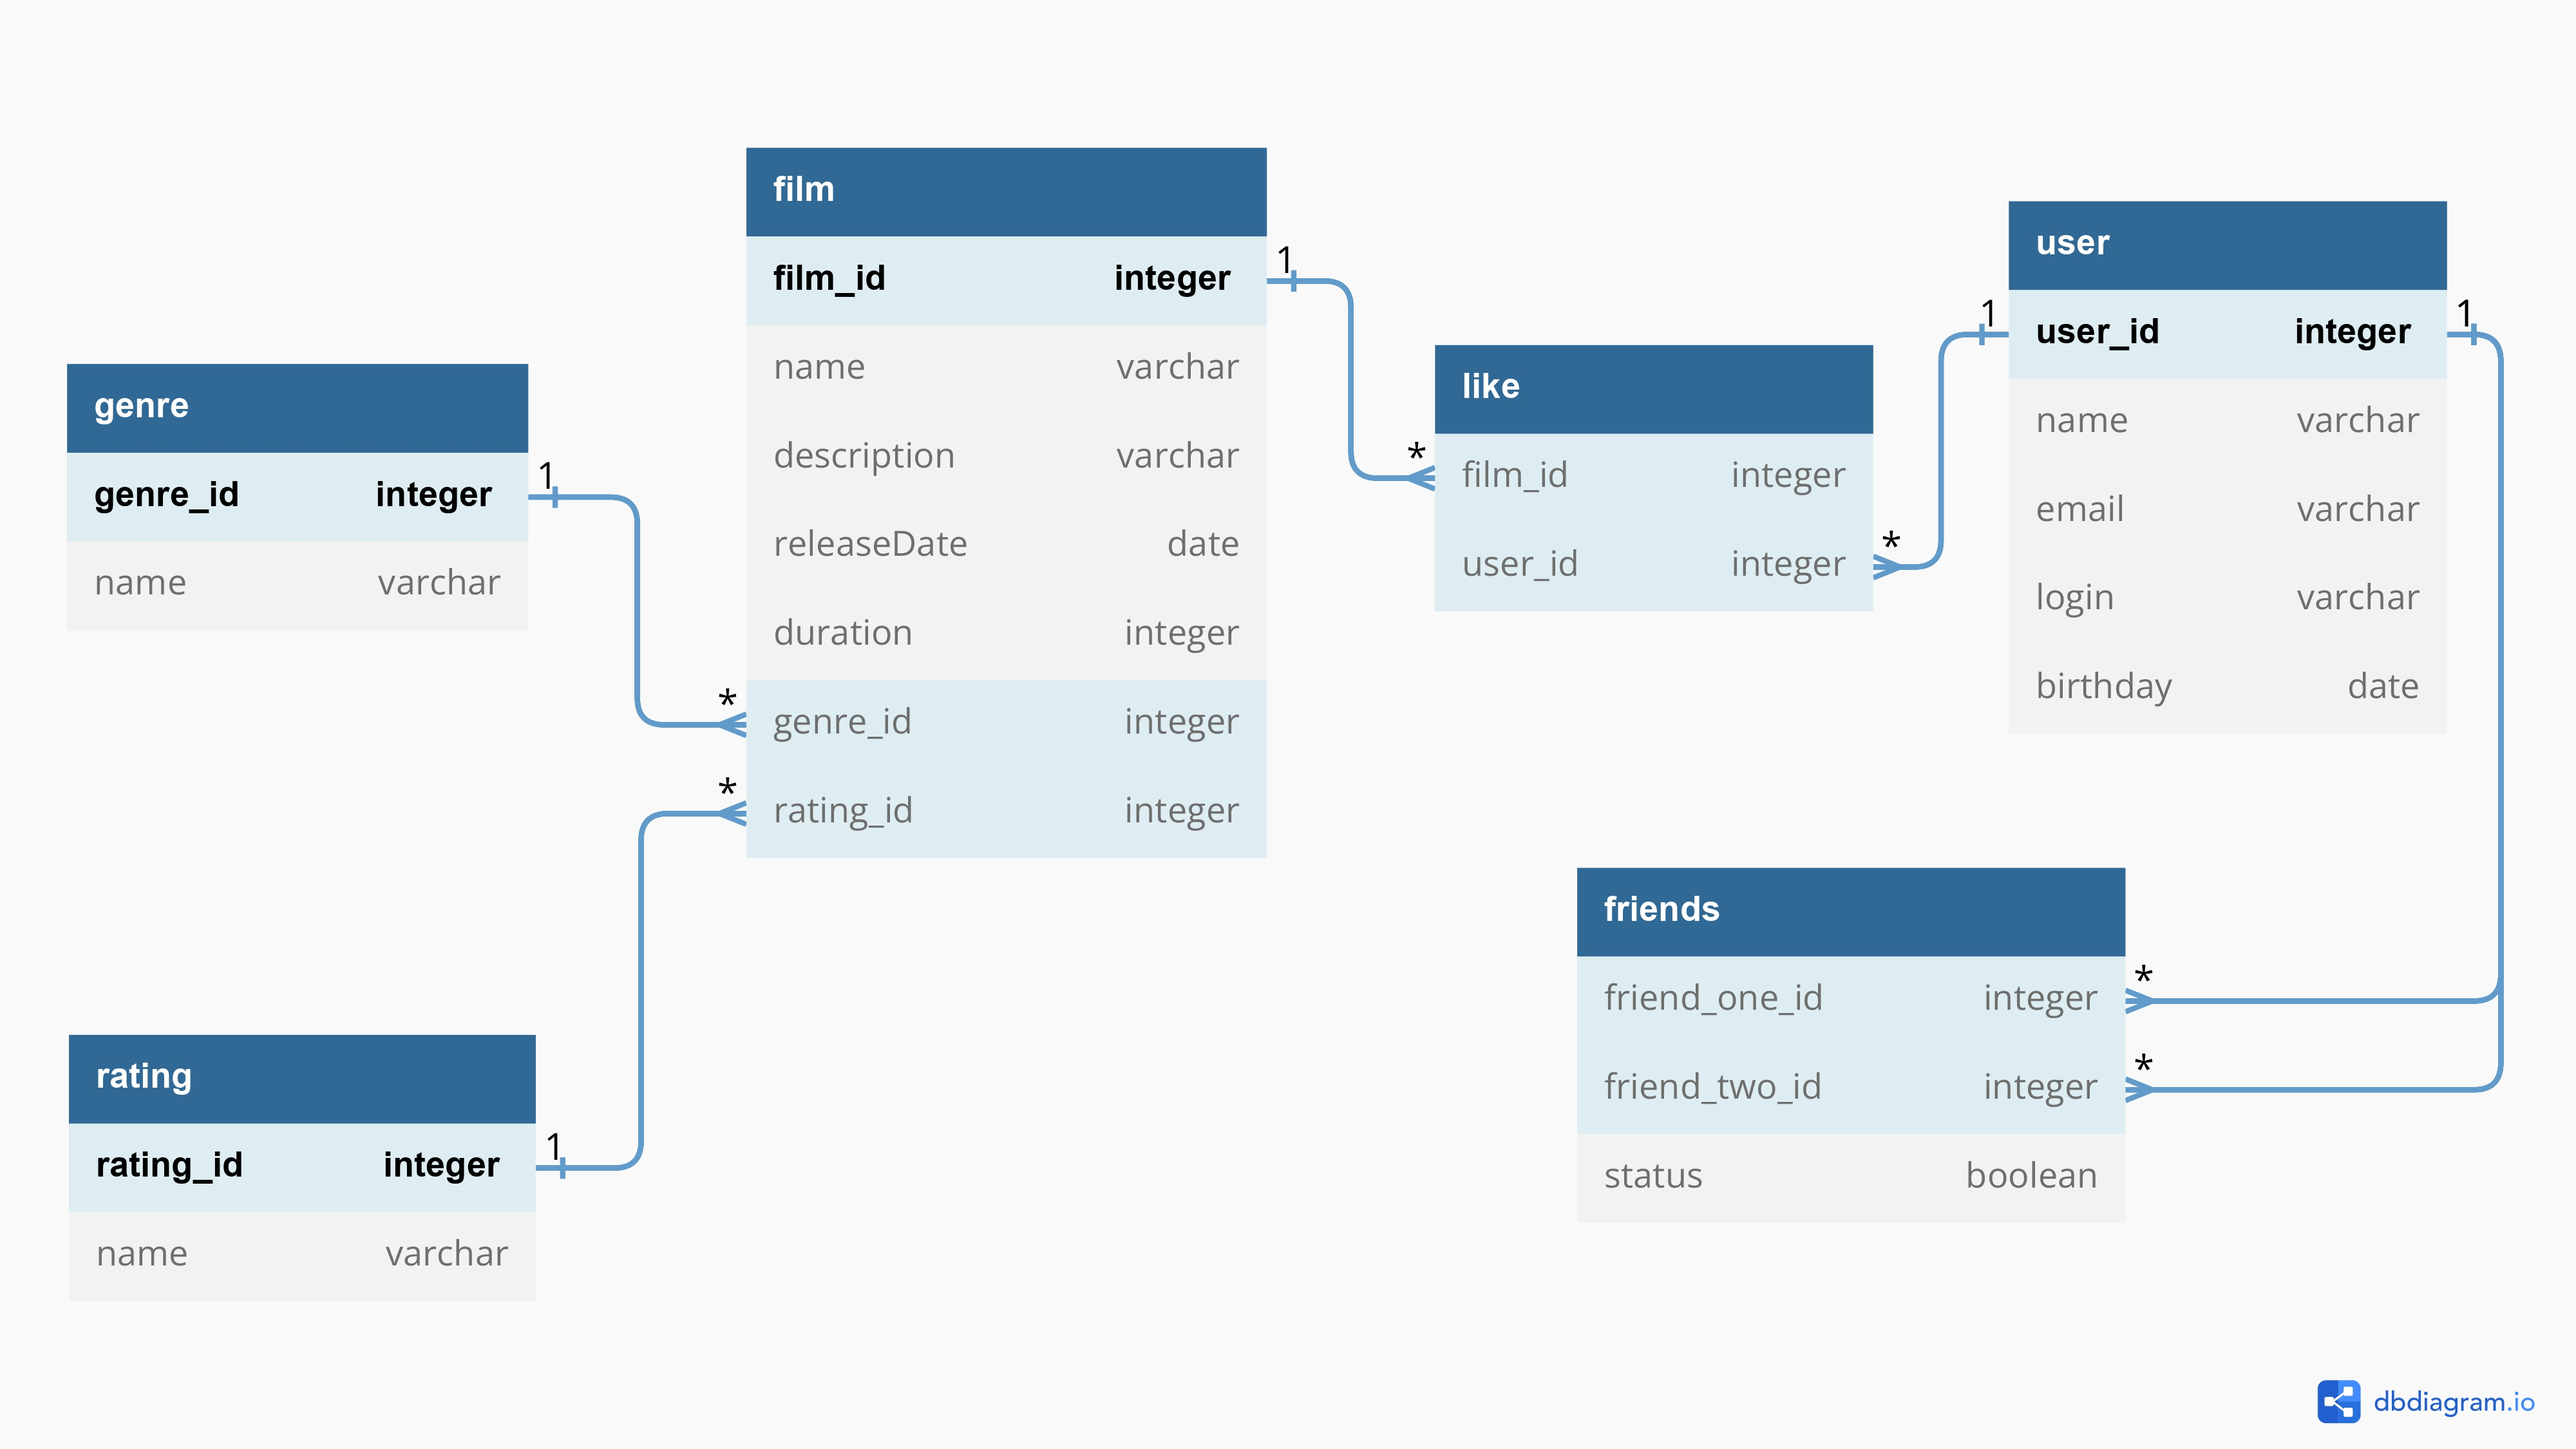
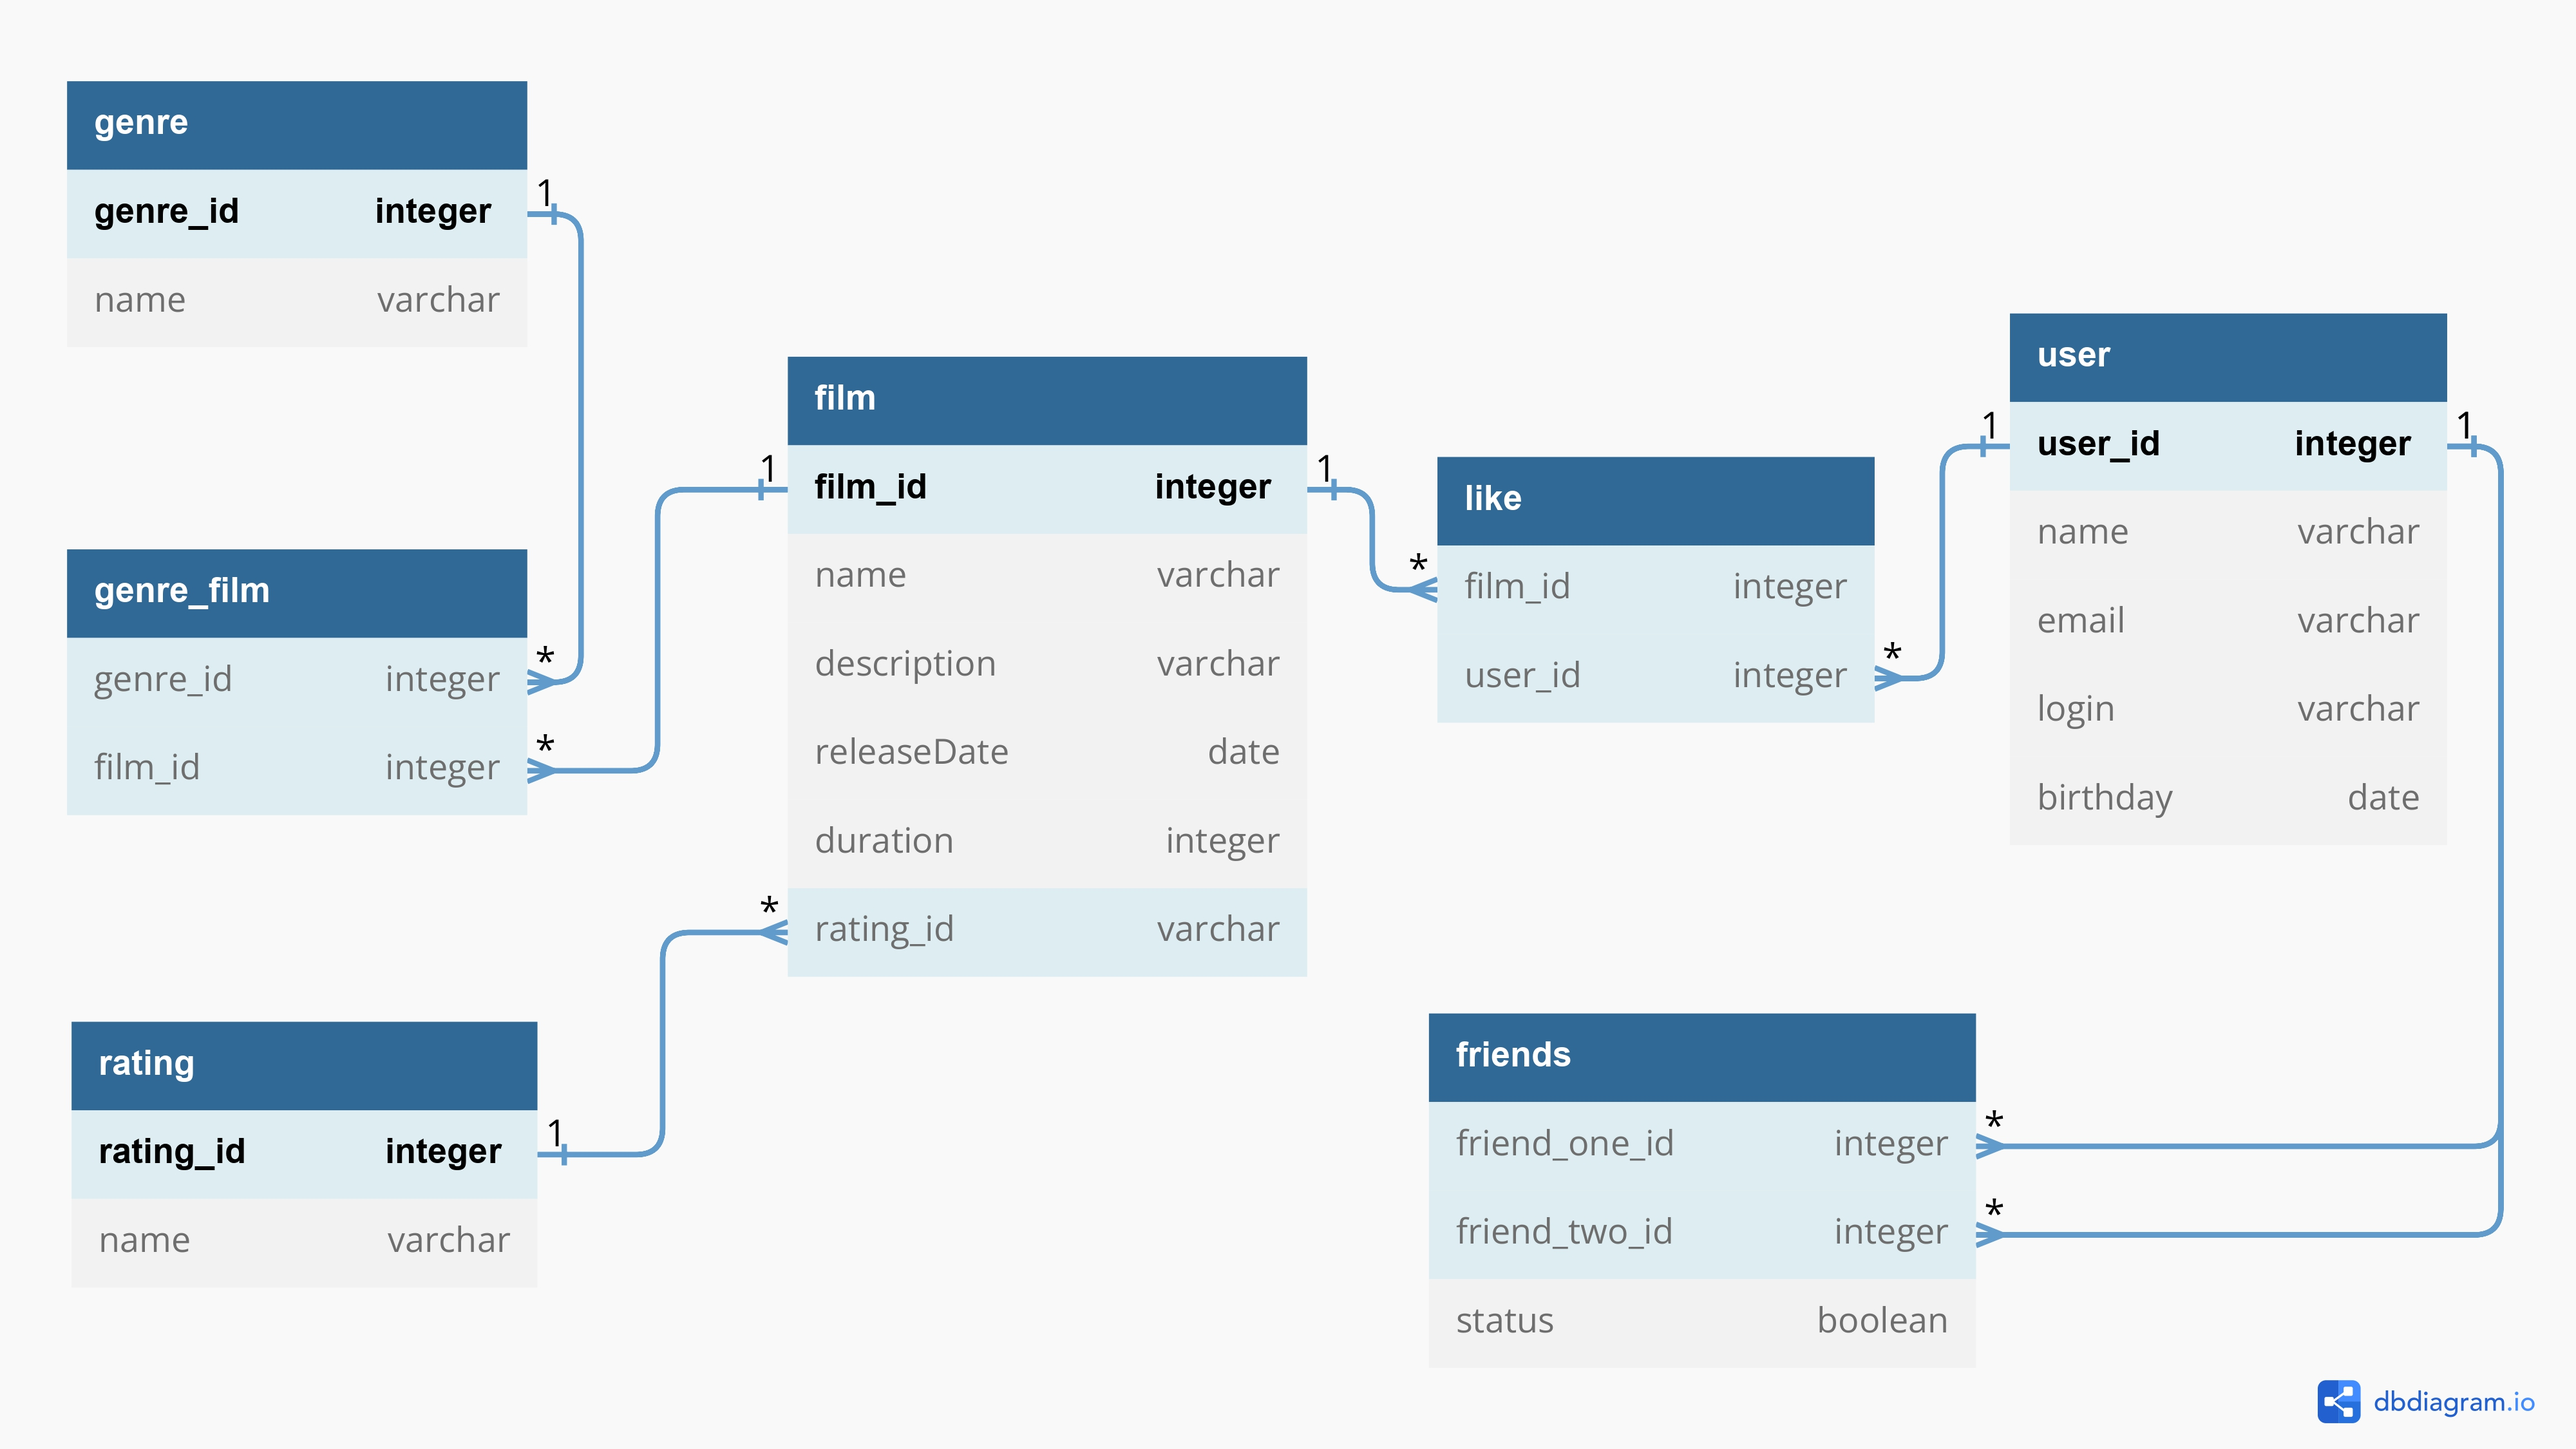
fix: README.md

diff --git a/src/main/java/ru/filmogram/model/Film.java b/src/main/java/ru/filmogram/model/Film.java
@@ -15,7 +15,7 @@ public class Film implements Comparable<Film> {
     private String name;
     private String description;
     private LocalDate releaseDate;
-    private String genre;
+    private Set<String> genre;
     private String rating;
     // продолжительность фильма в минутах
     private long duration;

diff --git a/README.md b/README.md
@@ -44,6 +44,16 @@ ER-diagram for Filmorate project
     * **comedy** — комедия;
     * **drama** — драма.
 
+***genre_film***
+
+Содержит информацию о популярном кино.
+
+Таблица состоит из полей:
+
+* внешний ключ **film_id** (отсылает к таблице **film**) — идентификатор фильма;
+* внешний ключ **genre_id** (отсылает к таблице **genre**) —идентификатор жанра;
+
+
 ***like***
 
 Содержит информацию о популярном кино.
@@ -83,11 +93,12 @@ SELECT f.film_id,
        f.name,
        f.description,
        f.releaseDate,
-       g.genre,
+       GROUP_CONCAT(g.name) AS genreFilm,
        r.rating
        GROUP_CONCAT(l.user_id) AS listOfUsersLike
 FROM film AS f
-LEFT JOIN genre AS g ON f.genre_id = g.genre_id
+LEFT JOIN genre AS g ON gf.genre_id = g.genre_id
+LEFT JOIN genre_film AS gf ON f.genre_id = gf.genre_id
 LEFT JOIN rating AS r ON f.rating = r.rating
 LEFT JOIN like AS l ON f.film_id = l.film_id;
 ```
@@ -98,7 +109,7 @@ SELECT f.film_id,
        f.name,
        f.description,
        f.releaseDate,
-       g.genre,
+       GROUP_CONCAT(gf.name) AS genreFilm,
        r.rating
        GROUP_CONCAT(l.user_id) AS listOfUsersLike
        (SELECT COUNT (user_id) AS popular
@@ -106,7 +117,8 @@ SELECT f.film_id,
        GROUP BY film_id
        ORDER BY popular DESC) AS like 
 FROM film AS f
-LEFT JOIN genre AS g ON f.genre_id = g.genre_id
+LEFT JOIN genre AS g ON gf.genre_id = g.genre_id
+LEFT JOIN genre_film AS gf ON f.genre_id = gf.genre_id
 LEFT JOIN rating AS r ON f.rating = r.rating
 LEFT JOIN like AS l ON f.film_id = l.film_id;
 ```
@@ -117,7 +129,7 @@ SELECT f.film_id,
        f.name,
        f.description,
        f.releaseDate,
-       g.genre,
+       GROUP_CONCAT(gf.name) AS genreFilm,
        r.rating
        GROUP_CONCAT(l.user_id) AS listOfUsersLike
        (SELECT COUNT (user_id) AS popular
@@ -125,7 +137,8 @@ SELECT f.film_id,
        GROUP BY film_id
        ORDER BY popular DESC) AS like 
 FROM film AS f
-LEFT JOIN genre AS g ON f.genre_id = g.genre_id
+LEFT JOIN genre AS g ON gf.genre_id = g.genre_id
+LEFT JOIN genre_film AS gf ON f.genre_id = gf.genre_id
 LEFT JOIN rating AS r ON f.rating = r.rating
 LEFT JOIN like AS l ON f.film_id = l.film_id
 GROUP BY film_id
@@ -141,13 +154,13 @@ SELECT f.film_id,
        f.releaseDate,
        g.genre,
        r.rating
-       GROUP_CONCAT(l.user_id) AS listOfUsersLike
+       GROUP_CONCAT(l.name) AS listOfUsersLike
        (SELECT COUNT (user_id) AS popular
        FROM like
        GROUP BY film_id
        ORDER BY popular DESC) AS like 
 FROM film AS f
-LEFT JOIN genre AS g ON f.genre_id = g.genre_id
+LEFT JOIN genre AS g ON gf.genre_id = g.genre_id
 LEFT JOIN rating AS r ON f.rating = r.rating
 LEFT JOIN like AS l ON f.film_id = l.film_id
 WHERE f.film_id = x;
